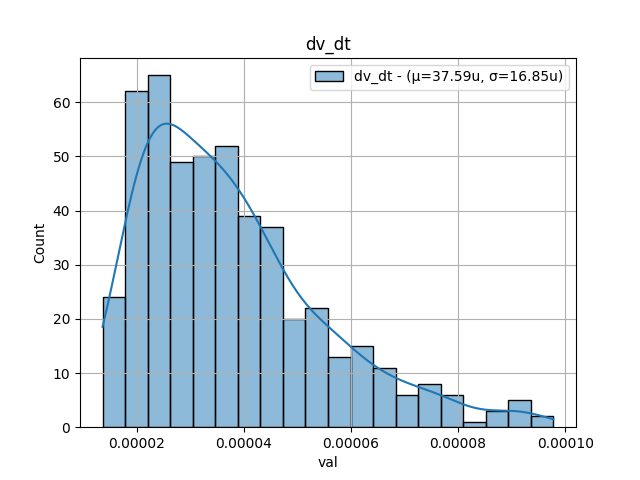
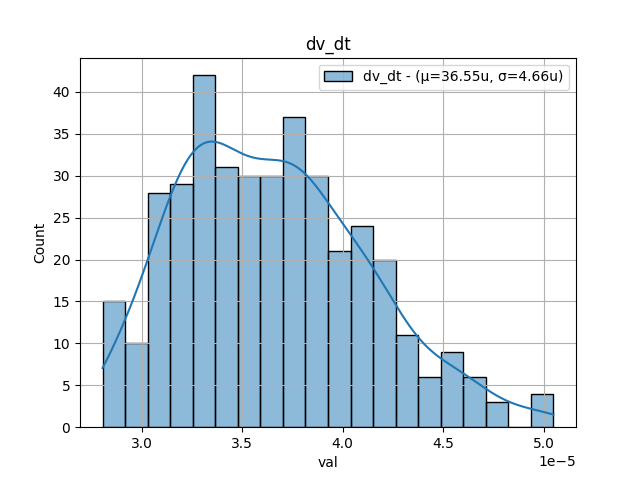
rerun of all statistical analysis after updated xschem symbol with par parameter

diff --git a/doc/testbuffer/mc_tb_amplifier.md b/doc/testbuffer/mc_tb_amplifier.md
@@ -6,8 +6,8 @@ Simulation results for mc_tb_amplifier
 
 |             | min       | max       | mean      | std       |
 |:------------|:----------|:----------|:----------|:----------|
-| mean(vos)   | -131.469u | 225.0193u | 14.14509u | 118.8547u |
-| stddev(vos) | 2.23207m  | 2.41093m  | 2.30200m  | 67.26941u |
+| mean(vos)   | 63.56819u | 164.1102u | 121.9404u | 36.78295u |
+| stddev(vos) | 1.54480m  | 1.72093m  | 1.63678m  | 68.81089u |
 
 ![mean(vos)](pic/sim_sch/mc_tb_amplifier/mean_vos.png)
 ![stddev(vos)](pic/sim_sch/mc_tb_amplifier/stddev_vos.png)

diff --git a/doc/bandgap/mc_bandgap_temperature.md b/doc/bandgap/mc_bandgap_temperature.md
@@ -4,6 +4,12 @@ Simulation results for mc_bandgap_temperature
 
 ## Pre-Layout Simulation
 
+|         | min       | max       | mean      | std       |
+|:--------|:----------|:----------|:----------|:----------|
+| vbg_min | 937.9381m | 1.06533   | 1.00014   | 23.14576m |
+| vbg_max | 940.1215m | 1.06932   | 1.00306   | 23.24538m |
+| dv_dt   | 26.47467u | 54.80452u | 36.60779u | 4.98116u  |
+
 ![dv_dt](pic/sim_sch/mc_bandgap_temperature/dv_dt.png)
 
 ![tc](pic/sim_sch/mc_bandgap_temperature/tc.png)
